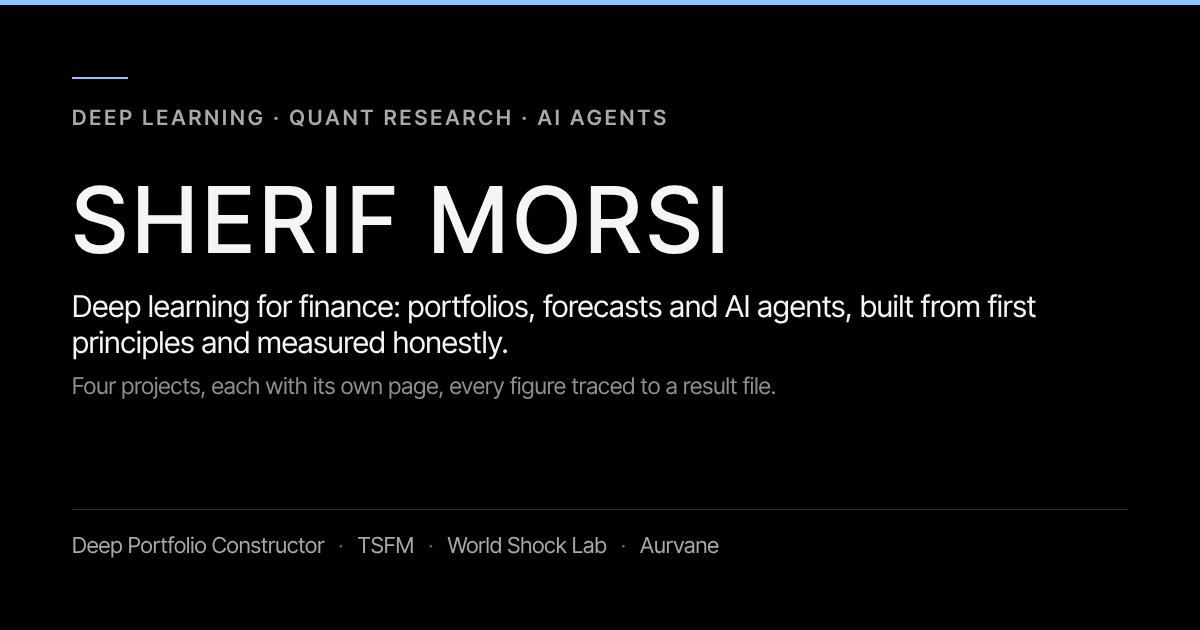
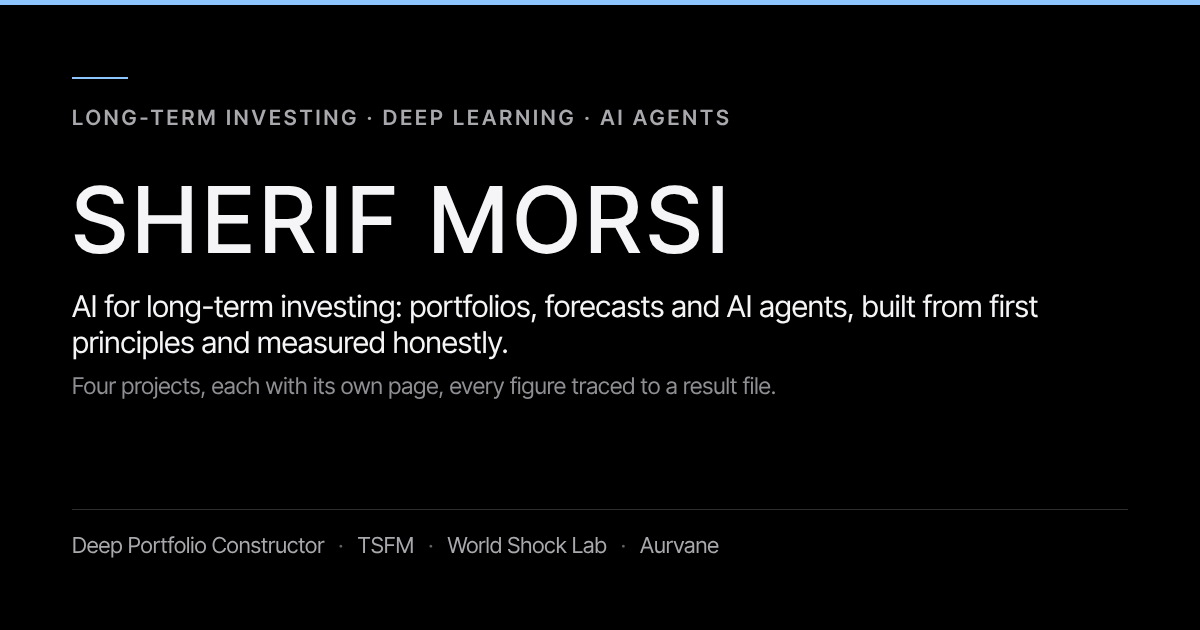
Position the site for long-term investing roles
- Headline: AI for long-term investing (data/projects.json, titles, share image)
- Hero: open to pension funds, asset managers and AI teams
- "Where I fit": the toolkit regrouped by the team that would use it
  (investment team, quantitative research, AI or ML team), each phrase backed
  by a project's code
- README: the stage, the full-bleed hero and where the illustration lives now

Claude-Session: https://claude.ai/code/session_01VVdSRZhN8hRo1MFQGDfJGN

Changed region(s): [[0.0617, 0.4524, 0.8633, 0.5127], [0.0617, 0.1508, 0.6167, 0.2111]]

diff --git a/index.html b/index.html
@@ -3,8 +3,8 @@
 <head>
   <meta charset="utf-8">
   <meta name="viewport" content="width=device-width,initial-scale=1,viewport-fit=cover">
-  <title>Sherif Morsi · Deep learning for finance</title>
-  <meta name="description" content="Sherif Morsi builds deep learning systems for finance: portfolios, forecasts and AI agents, scored on tests fixed in advance. Projects: Deep Portfolio Constructor, Time-series foundation model, World Shock Lab, Aurvane.">
+  <title>Sherif Morsi · AI for long-term investing</title>
+  <meta name="description" content="Sherif Morsi builds AI for long-term investing: portfolios, forecasts and AI agents, scored on tests fixed in advance. Projects: Deep Portfolio Constructor, Time-series foundation model, World Shock Lab, Aurvane.">
   <meta name="author" content="Sherif Morsi">
   <meta name="theme-color" content="#000000">
   <meta name="color-scheme" content="dark light">
@@ -14,18 +14,18 @@
   <meta property="og:site_name" content="Sherif Morsi">
   <meta property="og:locale" content="en_CA">
   <meta property="og:url" content="https://shmorsi.github.io/">
-  <meta property="og:title" content="Sherif Morsi · Deep learning for finance">
-  <meta property="og:description" content="Deep learning for finance: portfolios, forecasts and AI agents, built from first principles and measured honestly. Four projects, each with its own page and every figure traced to a result file.">
+  <meta property="og:title" content="Sherif Morsi · AI for long-term investing">
+  <meta property="og:description" content="AI for long-term investing: portfolios, forecasts and AI agents, built from first principles and measured honestly. Four projects, each with its own page and every figure traced to a result file.">
   <meta property="og:image" content="https://shmorsi.github.io/assets/og.png">
   <meta property="og:image:type" content="image/png">
   <meta property="og:image:width" content="1200">
   <meta property="og:image:height" content="630">
-  <meta property="og:image:alt" content="Sherif Morsi. Deep learning for finance: portfolios, forecasts and AI agents, built from first principles and measured honestly.">
+  <meta property="og:image:alt" content="Sherif Morsi. AI for long-term investing: portfolios, forecasts and AI agents, built from first principles and measured honestly.">
   <meta name="twitter:card" content="summary_large_image">
-  <meta name="twitter:title" content="Sherif Morsi · Deep learning for finance">
-  <meta name="twitter:description" content="Deep learning for finance: portfolios, forecasts and AI agents, built from first principles and measured honestly.">
+  <meta name="twitter:title" content="Sherif Morsi · AI for long-term investing">
+  <meta name="twitter:description" content="AI for long-term investing: portfolios, forecasts and AI agents, built from first principles and measured honestly.">
   <meta name="twitter:image" content="https://shmorsi.github.io/assets/og.png">
-  <meta name="twitter:image:alt" content="Sherif Morsi. Deep learning for finance: portfolios, forecasts and AI agents, built from first principles and measured honestly.">
+  <meta name="twitter:image:alt" content="Sherif Morsi. AI for long-term investing: portfolios, forecasts and AI agents, built from first principles and measured honestly.">
   <link rel="icon" href="assets/favicon.svg" type="image/svg+xml">
   <link rel="icon" href="assets/favicon-32.png" type="image/png" sizes="32x32">
   <link rel="apple-touch-icon" href="assets/apple-touch-icon.png">
@@ -73,8 +73,8 @@
           <p class="hero-badge"><span class="pulse" aria-hidden="true"></span>Open to internships from January 2027</p>
           <p class="eyebrow">Computer Science · Concordia University · Montreal</p>
           <h1 id="hero-title">Sherif Morsi</h1>
-          <p class="hero-lead">Deep learning for finance: portfolios, forecasts and AI agents, built from first principles and measured honestly.</p>
-          <p class="hero-meta">Third-year Computer Science student. Open to 4 to 16 month internships anywhere in Canada from January 2027, in machine learning, quantitative research, portfolio construction and AI agents.</p>
+          <p class="hero-lead">AI for long-term investing: portfolios, forecasts and AI agents, built from first principles and measured honestly.</p>
+          <p class="hero-meta">Third-year Computer Science student. Open to 4 to 16 month internships anywhere in Canada from January 2027, with pension funds, asset managers and AI teams: portfolio construction, quantitative research, machine learning and AI agents.</p>
           <div class="actions">
             <a class="button button-solid" href="#work">See the work</a>
             <a class="button" href="resume/Sherif_Morsi_Resume.pdf" download>Resume</a>
@@ -98,7 +98,7 @@
     <section class="section statement" aria-label="In short">
       <div class="wrap">
         <p class="label">In short</p>
-        <p class="statement-text" data-statement><span class="sw">I</span> <span class="sw">build</span> <span class="sw">AI</span> <span class="sw">for</span> <span class="sw">money:</span> <span class="sw">systems</span> <span class="sw">that</span> <span class="sw is-hot">invest,</span> <span class="sw is-hot">forecast,</span> <span class="sw">and</span> <span class="sw">keep</span> <span class="sw is-hot">AI</span> <span class="sw">assistants</span> <span class="sw">honest.</span> <span class="sw">And</span> <span class="sw">I</span> <span class="sw">test</span> <span class="sw">them</span> <span class="sw">like</span> <span class="sw">a</span> <span class="sw">scientist.</span> <span class="sw">The</span> <span class="sw">test</span> <span class="sw">is</span> <span class="sw">written</span> <span class="sw">down</span> <span class="sw">before</span> <span class="sw">the</span> <span class="sw">result</span> <span class="sw">is</span> <span class="sw">seen,</span> <span class="sw">and</span> <span class="sw">the</span> <span class="sw">result</span> <span class="sw">is</span> <span class="sw">published</span> <span class="sw">even</span> <span class="sw">when</span> <span class="sw">the</span> <span class="sw">answer</span> <span class="sw">is</span> <span class="sw">no.</span></p>
+        <p class="statement-text" data-statement><span class="sw">I</span> <span class="sw">build</span> <span class="sw">AI</span> <span class="sw">for</span> <span class="sw">long-term</span> <span class="sw">investing:</span> <span class="sw">systems</span> <span class="sw">that</span> <span class="sw is-hot">invest</span> <span class="sw">for</span> <span class="sw">decades,</span> <span class="sw is-hot">forecast</span> <span class="sw">with</span> <span class="sw">an</span> <span class="sw">honest</span> <span class="sw">range,</span> <span class="sw">and</span> <span class="sw">keep</span> <span class="sw is-hot">AI</span> <span class="sw is-hot">assistants</span> <span class="sw">safe</span> <span class="sw">around</span> <span class="sw">money.</span> <span class="sw">And</span> <span class="sw">I</span> <span class="sw">test</span> <span class="sw">them</span> <span class="sw">like</span> <span class="sw">a</span> <span class="sw">scientist.</span> <span class="sw">The</span> <span class="sw">test</span> <span class="sw">is</span> <span class="sw">written</span> <span class="sw">down</span> <span class="sw">before</span> <span class="sw">the</span> <span class="sw">result</span> <span class="sw">is</span> <span class="sw">seen,</span> <span class="sw">and</span> <span class="sw">the</span> <span class="sw">result</span> <span class="sw">is</span> <span class="sw">published</span> <span class="sw">even</span> <span class="sw">when</span> <span class="sw">the</span> <span class="sw">answer</span> <span class="sw">is</span> <span class="sw">no.</span></p>
       </div>
     </section>
 
@@ -408,7 +408,7 @@
           <p>The same four rules on every project. They are why a number on this site means something.</p>
         </div>
         <ol class="rules" data-reveal><li><span class="num">01</span><h3>Decide the test first</h3><p>Splits, metrics, baselines and the rule for a disappointing answer are tagged in git before the test set is opened.</p></li><li><span class="num">02</span><h3>No look-ahead</h3><p>Models refit on past data only. Tests fail if changing data after a decision date changes the decision.</p></li><li><span class="num">03</span><h3>Intervals, not points</h3><p>Every comparison carries its interval. When the interval includes zero, the page says it is not an improvement.</p></li><li><span class="num">04</span><h3>Every number traced</h3><p>Figures are read from one data file that names each result&#x27;s source, and a check fails the build if a page drifts.</p></li></ol>
-        <div class="toolkit" data-reveal><article><h3>Deep learning</h3><p>Transformers written and trained in PyTorch, attention across assets, differentiable optimisation, probabilistic forecasting, mixed precision.</p><p class="proof"><span class="label">See</span><a href="#p-deep-portfolio-constructor">Portfolio</a><a href="#p-tsfm">TSFM</a></p></article><article><h3>Quant and finance</h3><p>Portfolio optimisation, risk and factor models, walk-forward backtests, event studies, Newey-West and bootstrap inference.</p><p class="proof"><span class="label">See</span><a href="#p-deep-portfolio-constructor">Portfolio</a><a href="#p-world-shock-lab">Shock Lab</a></p></article><article><h3>AI agents and engineering</h3><p>LLM agents, tool calling, MCP, prompt-injection defence. Python, TypeScript, SQL, pytest, GitHub Actions.</p><p class="proof"><span class="label">See</span><a href="#p-aurvane">Aurvane</a><a href="#p-world-shock-lab">Shock Lab</a></p></article></div>
+        <div class="toolkit" data-reveal><p class="label">Where I fit</p><article><h3>On an investment team</h3><p>Long-only portfolios built for decades, with rebalancing and every trading cost counted. Factor models, walk-forward backtests with no look-ahead, and how a rate surprise moves stocks, bond yields and currencies.</p><p class="proof"><span class="label">See</span><a href="#p-deep-portfolio-constructor">Portfolio</a><a href="#p-world-shock-lab">Shock Lab</a></p></article><article><h3>In quantitative research</h3><p>The test is fixed before the data is opened. Newey-West and bootstrap inference, event studies, false-discovery control, and published findings replicated before anything new is claimed.</p><p class="proof"><span class="label">See</span><a href="#p-deep-portfolio-constructor">Portfolio</a><a href="#p-world-shock-lab">Shock Lab</a><a href="#p-tsfm">TSFM</a></p></article><article><h3>On an AI or ML team</h3><p>Transformers written and trained from scratch in PyTorch, probabilistic forecasting, LLM agents with tool calling, MCP and prompt-injection defence. Python, TypeScript, SQL, pytest, GitHub Actions.</p><p class="proof"><span class="label">See</span><a href="#p-tsfm">TSFM</a><a href="#p-aurvane">Aurvane</a></p></article></div>
       </div>
     </section>
 
@@ -466,7 +466,7 @@
         <p class="label">Contact</p>
         <h2 id="contact-title">Let's talk</h2>
         <div class="split">
-          <p class="lede">I build deep learning systems for finance, train the models underneath them, and write the measurement down, including when the answer is no.</p>
+          <p class="lede">I build AI for long-term investing, train the models underneath it, and write the measurement down, including when the answer is no.</p>
           <div class="reach">
             <a class="email" href="mailto:shmorsi@outlook.com">shmorsi@outlook.com</a>
             <p class="phone"><a href="tel:+14385966468">+1 (438) 596-6468</a></p>

diff --git a/assets/site.css b/assets/site.css
@@ -1291,3 +1291,7 @@ html:not(.stage) .hero-space { display: none; }
 @media (max-width: 1100px) {
   .hero-space { order: -1; min-height: 0; height: 30svh; }
 }
+
+/* "Where I fit": the label sits above the three columns. */
+.toolkit > .label { grid-column: 1 / -1; padding-top: 22px; margin-bottom: -6px; }
+.toolkit > .label + article { padding-left: 0; border-left: 0; }

diff --git a/scripts/build_home.py b/scripts/build_home.py
@@ -256,13 +256,18 @@ RULES = [
     ("Every number traced", "Figures are read from one data file that names each result's source, and a check fails the build if a page drifts."),
 ]
 
+# Where the work fits, by the team that would use it. Every phrase names something a project's code does;
+# scripts/check_site.py still rejects job titles and claims the projects do not back.
 TOOLKIT = [
-    ("Deep learning", "Transformers written and trained in PyTorch, attention across assets, differentiable optimisation, probabilistic forecasting, mixed precision.",
-     ["deep-portfolio-constructor", "tsfm"]),
-    ("Quant and finance", "Portfolio optimisation, risk and factor models, walk-forward backtests, event studies, Newey-West and bootstrap inference.",
+    ("On an investment team", "Long-only portfolios built for decades, with rebalancing and every trading cost counted. Factor models, "
+     "walk-forward backtests with no look-ahead, and how a rate surprise moves stocks, bond yields and currencies.",
      ["deep-portfolio-constructor", "world-shock-lab"]),
-    ("AI agents and engineering", "LLM agents, tool calling, MCP, prompt-injection defence. Python, TypeScript, SQL, pytest, GitHub Actions.",
-     ["aurvane", "world-shock-lab"]),
+    ("In quantitative research", "The test is fixed before the data is opened. Newey-West and bootstrap inference, event studies, "
+     "false-discovery control, and published findings replicated before anything new is claimed.",
+     ["deep-portfolio-constructor", "world-shock-lab", "tsfm"]),
+    ("On an AI or ML team", "Transformers written and trained from scratch in PyTorch, probabilistic forecasting, LLM agents with tool calling, "
+     "MCP and prompt-injection defence. Python, TypeScript, SQL, pytest, GitHub Actions.",
+     ["tsfm", "aurvane"]),
 ]
 
 
@@ -278,16 +283,16 @@ def marquee() -> str:
             f'<div class="marquee-run">{items}</div><div class="marquee-run">{items}</div></div></div>')
 
 
-STATEMENT = ("I build AI for money: systems that *invest*, *forecast*, and keep *AI assistants* honest. "
-             "And I test them like a scientist. The test is written down before the result is seen, "
-             "and the result is published even when the answer is no.")
+STATEMENT = ("I build AI for long-term investing: systems that *invest* for decades, *forecast* with an honest range, "
+             "and keep *AI assistants* safe around money. And I test them like a scientist. The test is written down "
+             "before the result is seen, and the result is published even when the answer is no.")
 
 
 def statement() -> str:
     """A sentence that lights up word by word as the reader scrolls. *word* marks an accent."""
     words = []
     for w in STATEMENT.split():
-        hot = w.startswith("*")
+        hot = "*" in w
         clean = w.replace("*", "")
         words.append(f'<span class="sw{" is-hot" if hot else ""}">{e(clean)}</span>')
     return " ".join(words)
@@ -310,14 +315,14 @@ def page() -> str:
     titles = ", ".join(P[i]["title"] for i in ORDER)
     count = len(ORDER)
     words = {3: "Three", 4: "Four", 5: "Five", 6: "Six"}.get(count, str(count))
-    desc = (f"Sherif Morsi builds deep learning systems for finance: portfolios, forecasts and AI agents, "
+    desc = (f"Sherif Morsi builds AI for long-term investing: portfolios, forecasts and AI agents, "
             f"scored on tests fixed in advance. Projects: {titles}.")
     return f"""<!doctype html>
 <html lang="en">
 <head>
   <meta charset="utf-8">
   <meta name="viewport" content="width=device-width,initial-scale=1,viewport-fit=cover">
-  <title>Sherif Morsi · Deep learning for finance</title>
+  <title>Sherif Morsi · AI for long-term investing</title>
   <meta name="description" content="{e(desc)}">
   <meta name="author" content="Sherif Morsi">
   <meta name="theme-color" content="#000000">
@@ -328,7 +333,7 @@ def page() -> str:
   <meta property="og:site_name" content="Sherif Morsi">
   <meta property="og:locale" content="en_CA">
   <meta property="og:url" content="https://shmorsi.github.io/">
-  <meta property="og:title" content="Sherif Morsi · Deep learning for finance">
+  <meta property="og:title" content="Sherif Morsi · AI for long-term investing">
   <meta property="og:description" content="{tagline} {words} projects, each with its own page and every figure traced to a result file.">
   <meta property="og:image" content="https://shmorsi.github.io/assets/og.png">
   <meta property="og:image:type" content="image/png">
@@ -336,7 +341,7 @@ def page() -> str:
   <meta property="og:image:height" content="630">
   <meta property="og:image:alt" content="Sherif Morsi. {tagline}">
   <meta name="twitter:card" content="summary_large_image">
-  <meta name="twitter:title" content="Sherif Morsi · Deep learning for finance">
+  <meta name="twitter:title" content="Sherif Morsi · AI for long-term investing">
   <meta name="twitter:description" content="{tagline}">
   <meta name="twitter:image" content="https://shmorsi.github.io/assets/og.png">
   <meta name="twitter:image:alt" content="Sherif Morsi. {tagline}">
@@ -375,7 +380,7 @@ def page() -> str:
           <p class="eyebrow">Computer Science · Concordia University · Montreal</p>
           <h1 id="hero-title">Sherif Morsi</h1>
           <p class="hero-lead">{tagline}</p>
-          <p class="hero-meta">Third-year Computer Science student. Open to 4 to 16 month internships anywhere in Canada from January 2027, in machine learning, quantitative research, portfolio construction and AI agents.</p>
+          <p class="hero-meta">Third-year Computer Science student. Open to 4 to 16 month internships anywhere in Canada from January 2027, with pension funds, asset managers and AI teams: portfolio construction, quantitative research, machine learning and AI agents.</p>
           <div class="actions">
             <a class="button button-solid" href="#work">See the work</a>
             <a class="button" href="{RESUME}" download>Resume</a>
@@ -436,7 +441,7 @@ def page() -> str:
           <p>The same four rules on every project. They are why a number on this site means something.</p>
         </div>
         <ol class="rules" data-reveal>{rules()}</ol>
-        <div class="toolkit" data-reveal>{toolkit()}</div>
+        <div class="toolkit" data-reveal><p class="label">Where I fit</p>{toolkit()}</div>
       </div>
     </section>
 
@@ -494,7 +499,7 @@ def page() -> str:
         <p class="label">Contact</p>
         <h2 id="contact-title">Let's talk</h2>
         <div class="split">
-          <p class="lede">I build deep learning systems for finance, train the models underneath them, and write the measurement down, including when the answer is no.</p>
+          <p class="lede">I build AI for long-term investing, train the models underneath it, and write the measurement down, including when the answer is no.</p>
           <div class="reach">
             <a class="email" href="mailto:shmorsi@outlook.com">shmorsi@outlook.com</a>
             <p class="phone"><a href="tel:+14385966468">+1 (438) 596-6468</a></p>

diff --git a/scripts/make_og.py b/scripts/make_og.py
@@ -46,7 +46,7 @@ TITLES = [("TSFM" if p["id"] == "tsfm" else p["title"]) for p in json.loads((ROO
 COUNT = {3: "Three", 4: "Four", 5: "Five", 6: "Six"}.get(len(TITLES), str(len(TITLES)))
 CARDS = {
     ROOT / "assets" / "og.png": f"""
-      <div class="rule"></div><p class="label">Deep learning · quant research · AI agents</p>
+      <div class="rule"></div><p class="label">Long-term investing · deep learning · AI agents</p>
       <h1>Sherif Morsi</h1>
       <p class="lede">{TAGLINE}</p>
       <p class="dim">{COUNT} projects, each with its own page, every figure traced to a result file.</p>

diff --git a/README.md b/README.md
@@ -1,6 +1,6 @@
 # Sherif Morsi
 
-Portfolio of Sherif Morsi, a third-year Computer Science student at Concordia University in Montreal: deep learning for finance, quant research, and AI agents.
+Portfolio of Sherif Morsi, a third-year Computer Science student at Concordia University in Montreal: AI for long-term investing, quant research, and AI agents.
 
 **Live:** https://shmorsi.github.io/
 
@@ -50,6 +50,7 @@ The master page and the Deep Portfolio Constructor page are generated from `data
 ```sh
 python3 scripts/sync_dpc.py ../deep-portfolio-constructor/reports/site_wealth.json    # project figures, series and holdings, when they change
 python3 scripts/make_marks.py        # one project mark per project (assets/marks/)
+python3 scripts/make_land.py land-110m.json   # data/land_mask.json for the particle globe (only if the map source changes)
 python3 scripts/build_home.py        # index.html, the master page (with scripts/stories.py and scripts/plain.py)
 python3 scripts/build_dpc_page.py    # projects/deep-portfolio-constructor.html
 python3 scripts/sync_chrome.py       # header, footer, project label, plain-English panel, previous / next links, private-repo notes
@@ -63,9 +64,10 @@ Static HTML, one stylesheet (`assets/site.css`), one script (`assets/site.js`), 
 
 The look is a launch-control theme for a deep learning and markets portfolio: pure black by default on every page, tracked uppercase display type, thin rules, telemetry numerals, ghost buttons that fill on hover, and one ice-blue accent (`#8ec5ff`), with amber for anything live. The header toggle switches to light for that browser.
 
-- **Hero.** An original canvas illustration of end-to-end learning for a long-only portfolio: seeded random-walk prices stream into a small network, attention picks out edges, the outputs set the portfolio's weights, and amber pulses run backwards as the gradient. Point at a stock to trace it; click its price line to shock it and watch the portfolio rebalance. It is labelled as an illustration, not data, has a pause button, pauses off screen and in background tabs, and draws one still frame under `prefers-reduced-motion`.
+- **Hero.** Full-bleed: the name on the left, and behind it a 3D neural network drawn in 18,000 glowing points (8,000 on phones) that flies together when the page opens, turns slowly, leans toward the pointer and carries pulses forward and amber pulses back.
+- **The stage.** Those points are one system for the whole page (a WebGL canvas fixed behind the content, "The stage" in `assets/site.js`). As the reader scrolls they re-form into each story's picture in turn: "$1", thirty industry bars, the growth of that dollar drawn from 1960 to 2026, a forecast and its range, a globe taking a shock that spreads out from Washington, thirty attacks landing and then being stopped, and finally the name. Each shape is sampled from the story's own SVG, so the points carry the same data and the SVG keeps its words and numbers on top; the globe's land comes from `data/land_mask.json` (Natural Earth 1:110m, public domain; `scripts/make_land.py` rasterises it). Without WebGL, or under reduced motion, the SVG pictures stay as they are.
 - **Telemetry strip.** Each project's headline figure, linked to its card.
-- **Featured project: the portfolio lab.** Pick one of seven long-only strategies and see its growth of $1 since 1960 (market crashes shaded, a readout under the pointer), its compound growth, worst fall and turnover, its pre-registered verdict against the market, and what it did differently, in plain English.
+- **Featured project: the portfolio lab.** Pick one of seven long-only strategies and see its growth of $1 since 1960 (market crashes shaded, a readout under the pointer), its compound growth, worst fall and turnover, its pre-registered verdict against the market, and what it did differently, in plain English. Beside its deep stack sits the interactive illustration of end-to-end learning: seeded random-walk prices stream into a small network, the outputs set the portfolio's weights, and amber pulses run backwards as the gradient. Point at a stock to trace it; click its price line to shock it. It is labelled as an illustration, not data, has a pause button, and draws one still frame under `prefers-reduced-motion`.
 - **Project cards.** One chart grammar for every card: a reference line (zero or the baseline) and either bars or points with their intervals, drawn from the data at build time. World Shock Lab's card takes a Fed or Bank of Canada surprise of any size and scales the committed per-10 bp estimates and their 90% bands; Aurvane's card replays its 30 poisoned tasks with and without the guard.
 - **The portfolio page.** "Try it" is a two-asset growth toy (labelled as made-up numbers) that shows why the network is trained on the growth of wealth rather than on average return; "Inside the portfolio" scrubs through the network's real holdings against the market's, quarter by quarter since 1960; "How often to trade" switches the same trained network between daily, monthly, quarterly and yearly rebalancing; the results compare it with the S&P 500 (dividends reinvested) and the NASDAQ Composite.
 - **Plain English.** Jargon (Sharpe, the Kelly criterion, active share, CRPS, basis point, prompt injection and so on) has a dotted underline and a one-tap definition.
